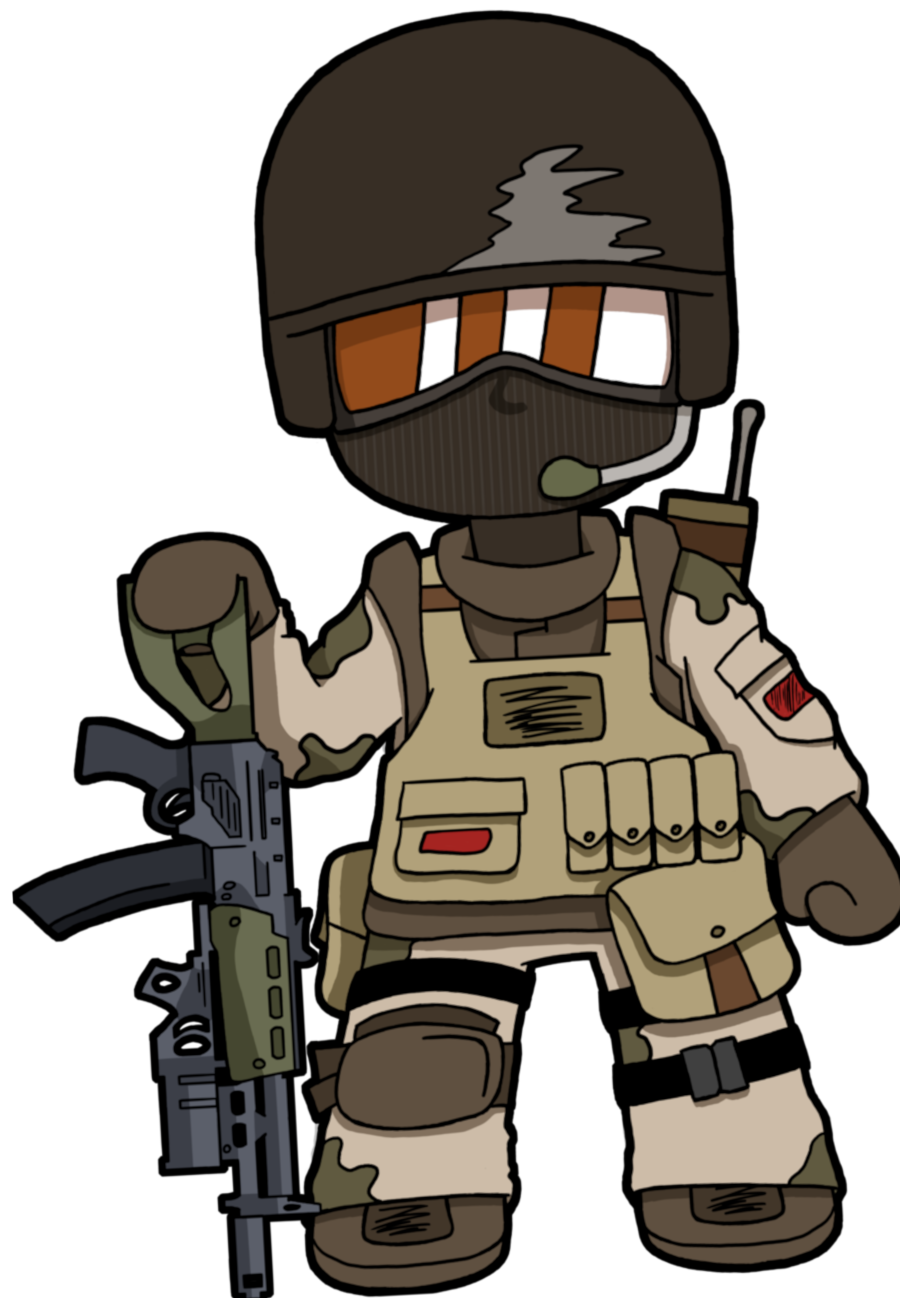
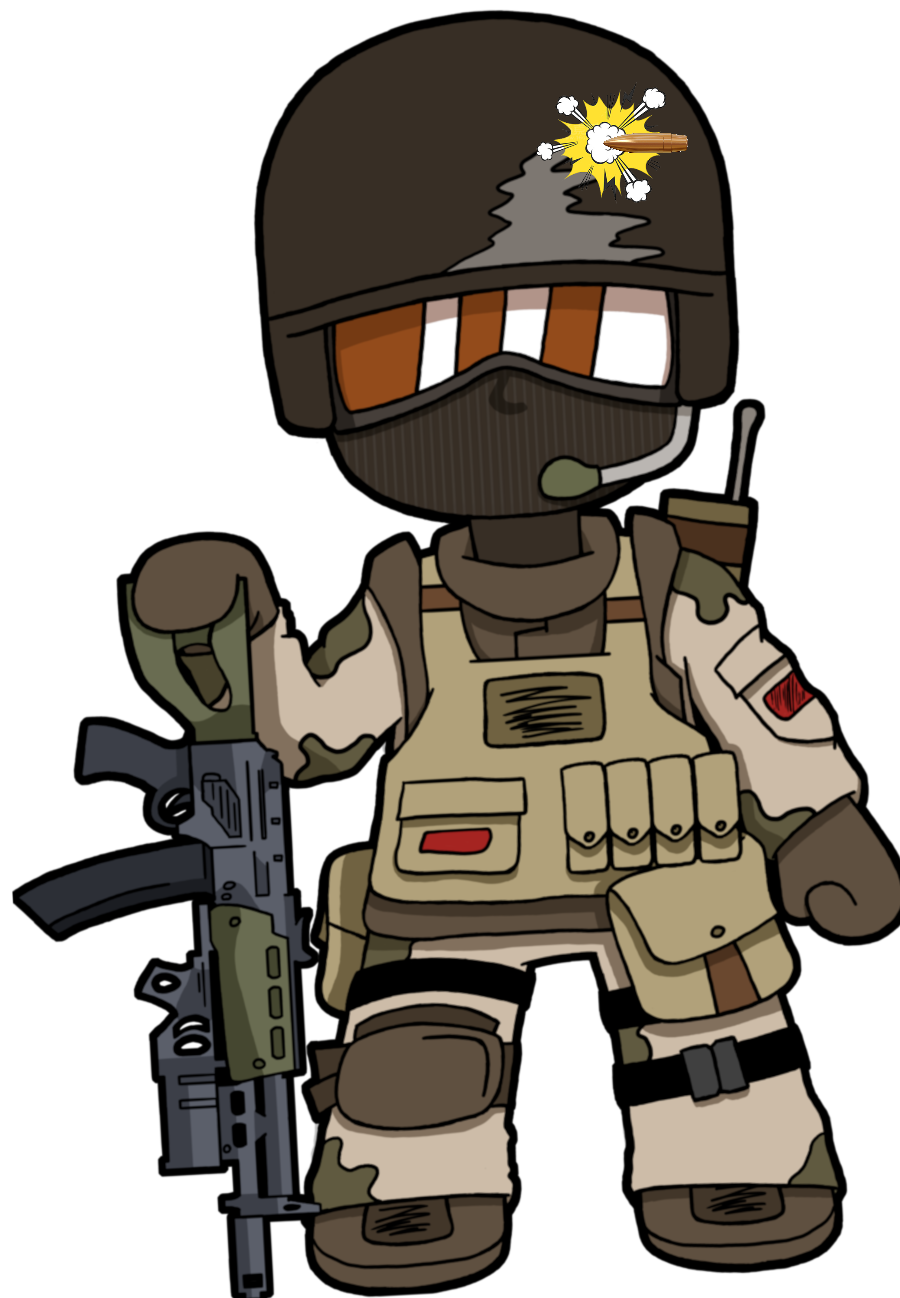
cant skip death animation anymore

Changed region(s): [[0.5911, 0.0616, 0.7778, 0.1541]]

diff --git a/minigame.html b/minigame.html
@@ -90,7 +90,7 @@
         </div>
         <button class="left-button-game" onclick="upgrade1()" id="upgrade1">+ 5 dmg<span class="break">per shot</span>
             <p class="stats upgrade1">5 <img src="img/dog-tag.png" class="price"></p></button><!-- dog tag image is from https://www.pngguru.com/free-transparent-background-png-clipart-jbcqz and the license is displayed under the image i have added a color to the dogtags-->
-        <button class="middle-button-game" onclick="attack()">pull the<span class="break">trigger</span></button>
+        <button class="middle-button-game" onclick="attack()" id="attackbtn">pull the<span class="break">trigger</span></button>
         <button class="right-button-game" onclick="upgrade2()" id="upgrade2">+ 5 bleed<span class="break">damage</span>
             <p class="stats upgrade2">10 <img src="img/dog-tag.png" class="price"></p></button><!-- dog tag image is from https://www.pngguru.com/free-transparent-background-png-clipart-jbcqz and the license is displayed under the image i have added a color to the dogtags-->
         <button class="lefttop-button-game" onclick="upgrade3()" id="upgrade3">+ 1 loot

diff --git a/javascript/game.js b/javascript/game.js
@@ -269,16 +269,18 @@ function animatie() {
     if (enemy.health > 0) {
         soldier.src = "img/soldier2.png";
         sniper.src = "img/sniper2.png";
-        setTimeout(normalsoldier, 100);
+        setTimeout(shotsoldier, 100);
         setTimeout(normalsniper, 100);
-        clearTimeout(normalsoldier);
+        clearTimeout(shotsoldier);
         clearTimeout(normalsniper);
 
     } else {
+        attackbtn.disabled = true, setTimeout(attackenable, 1000);
         soldier.src = "img/soldierdied.png", setTimeout(normalsoldier, 1000);
         sniper.src = "img/sniper2.png", setTimeout(normalsniper, 100);
         clearTimeout(normalsoldier);
         clearTimeout(normalsniper);
+        clearTimeout(attackenable);
     }
 }
 
@@ -288,6 +290,12 @@ function normalsoldier() {
 
 function normalsniper() {
     sniper.src = "img/sniper.png"
+}
+function shotsoldier() {
+    soldier.src = "img/soldiershot.png";
+}
+function attackenable() {
+    attackbtn.disabled = false;
 }
 
 function finish() {
